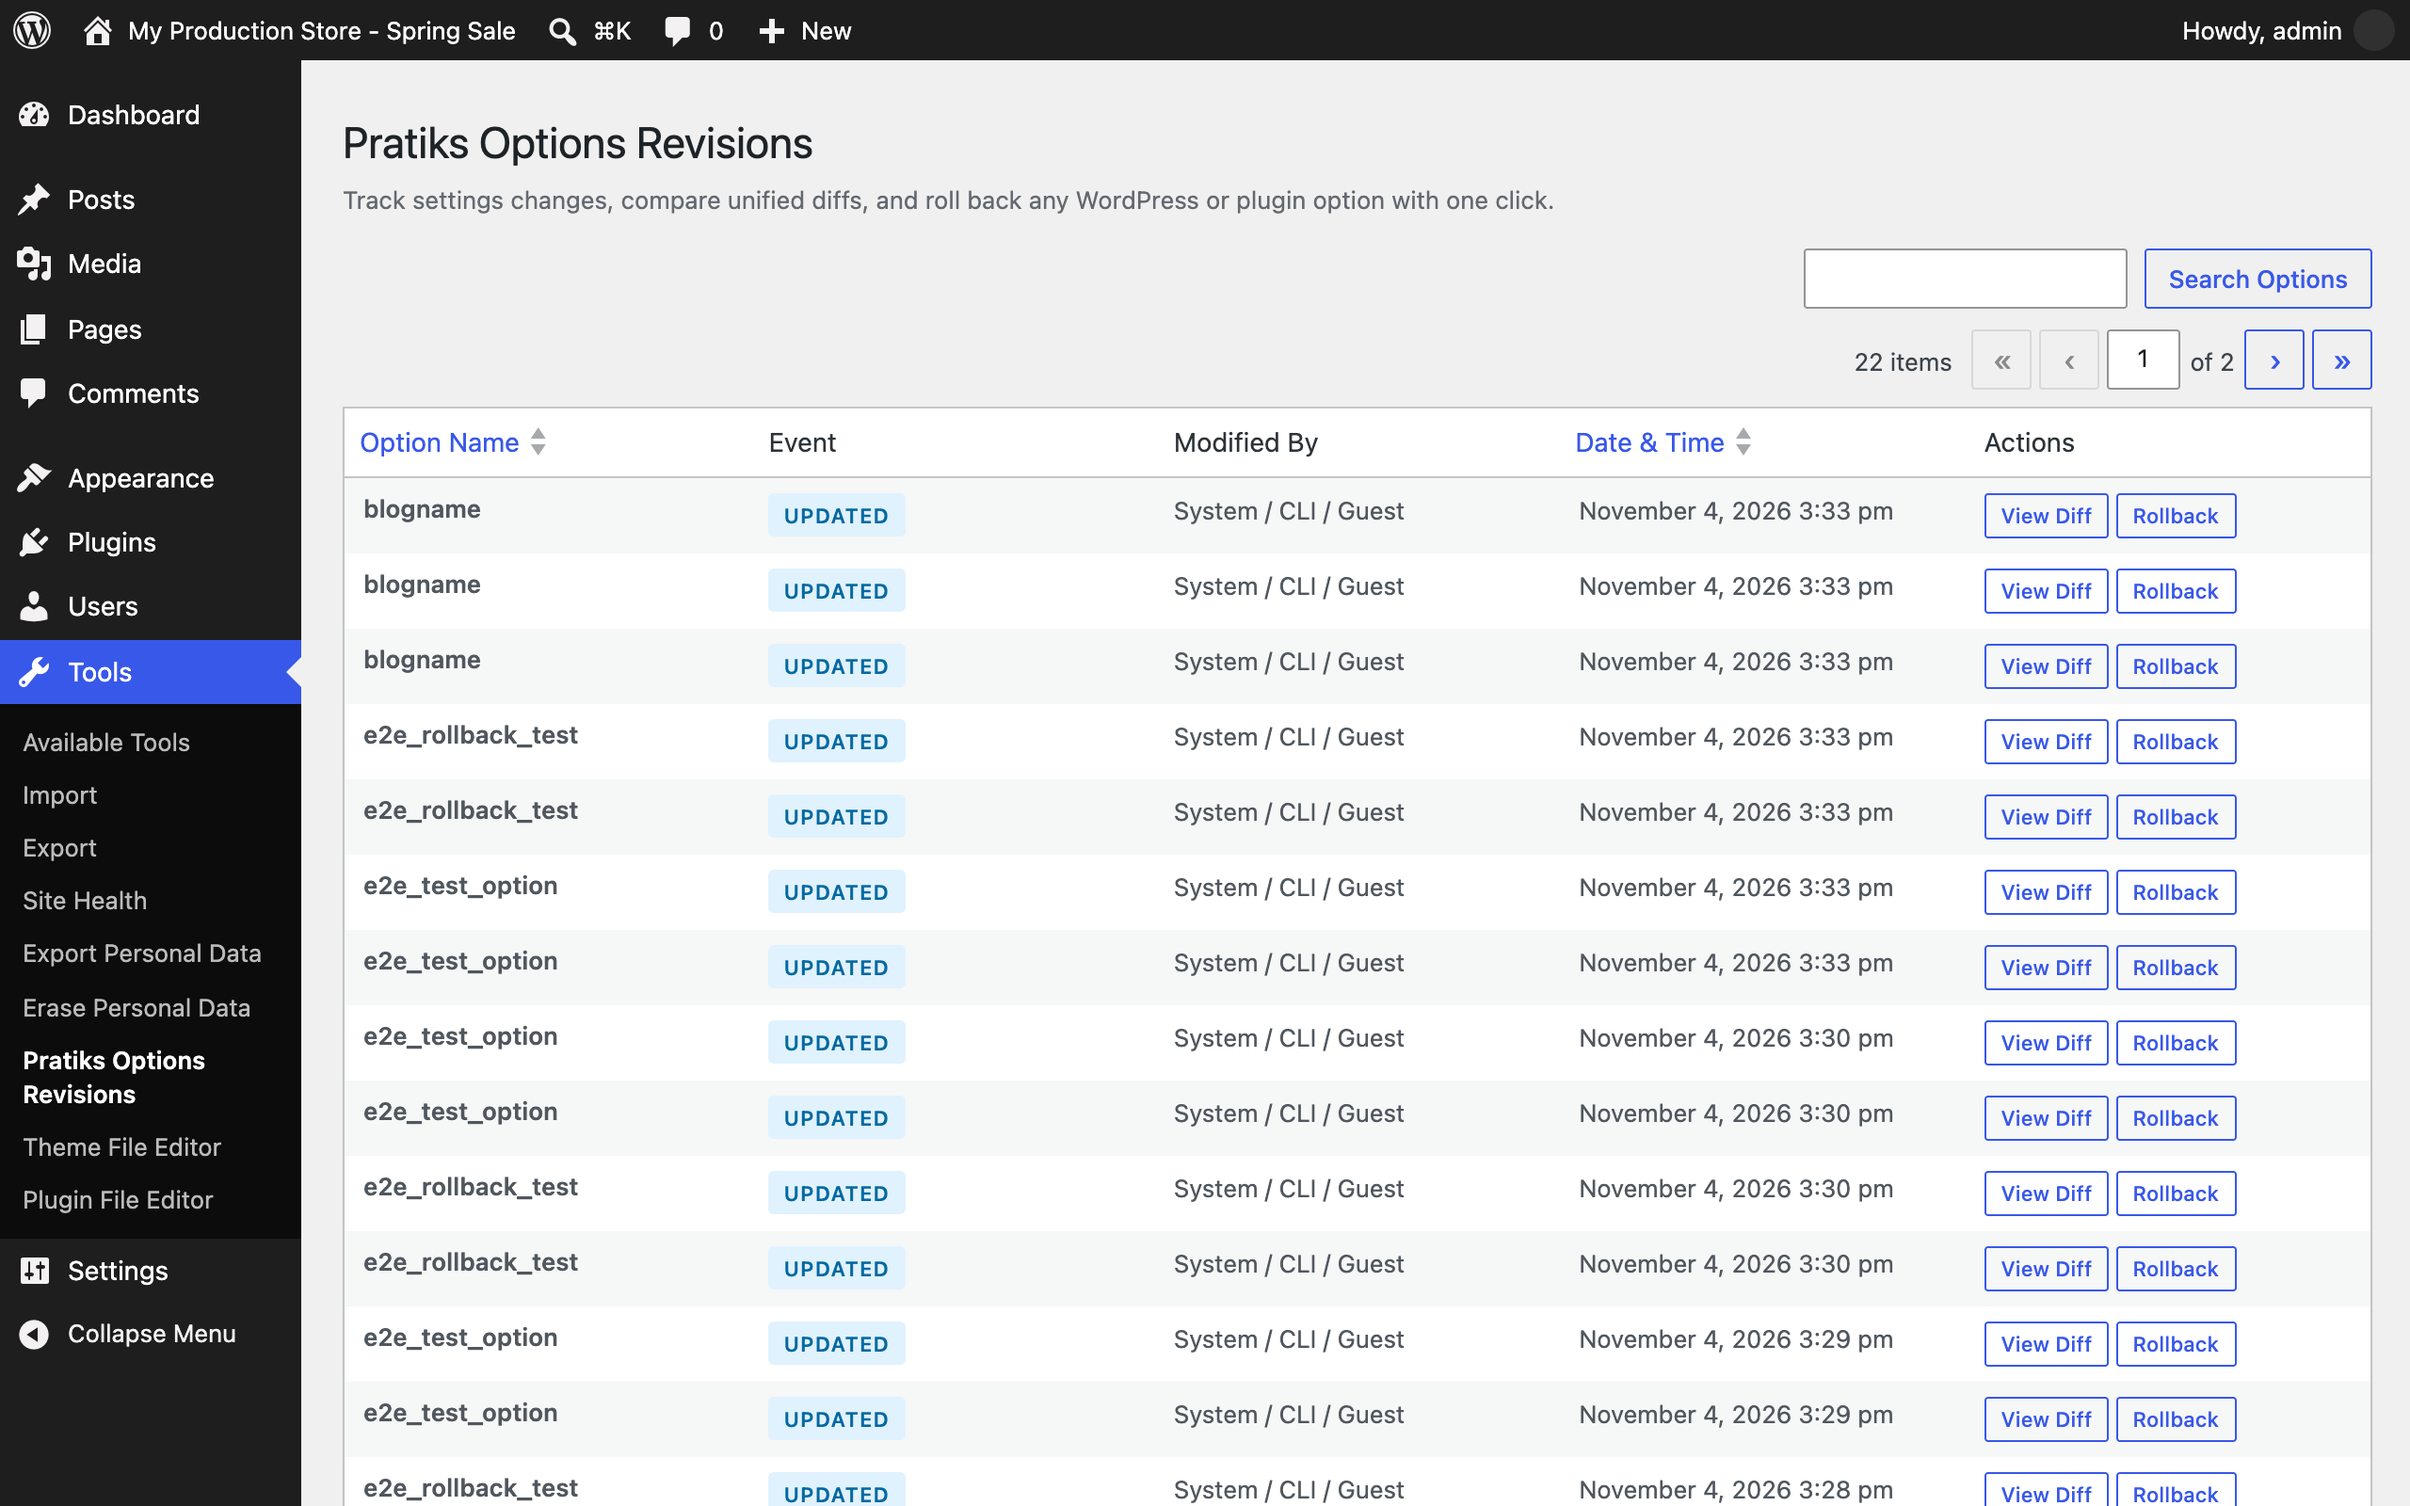
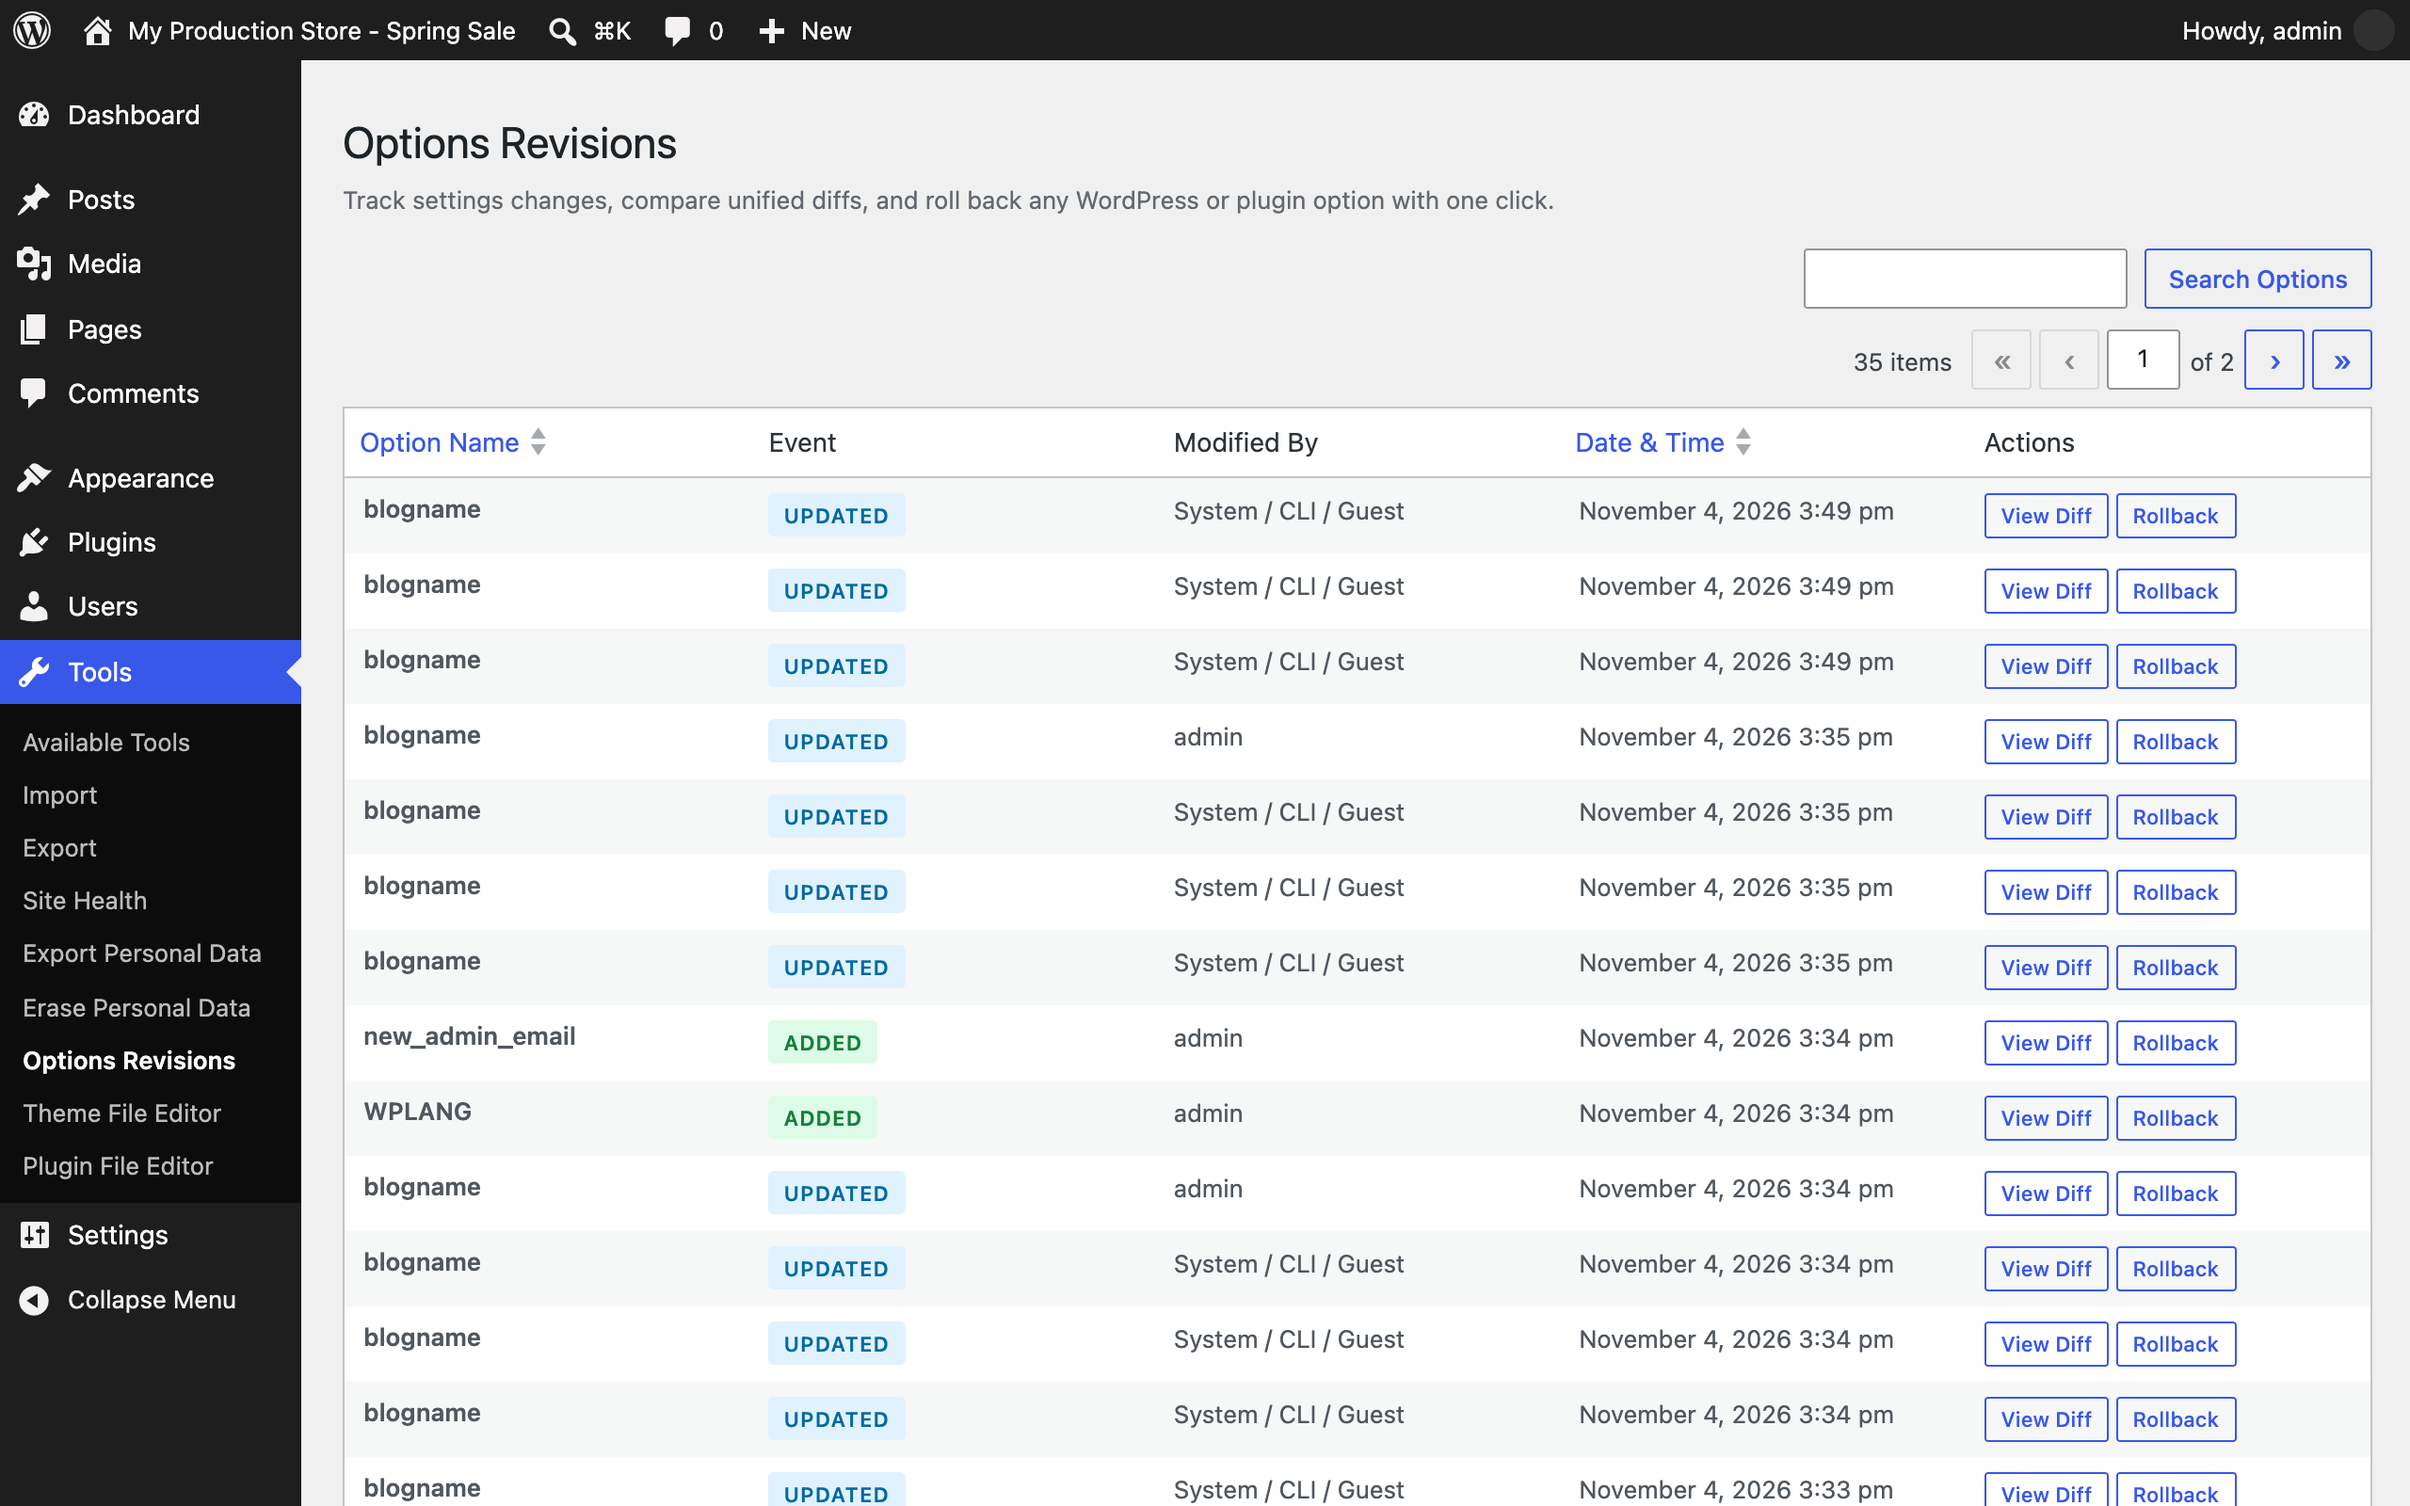
fix: use Options Revisions in admin UI and menus

diff --git a/tests/e2e/demo.spec.js b/tests/e2e/demo.spec.js
@@ -25,9 +25,9 @@ test( 'demo: update an option, view visual diff, and roll back in Tools', async 
 			await demo.type( titleInput, ' - Flash Promo (Unintended)' );
 			await demo.click( page.locator( '#submit' ), 1000 );
 
-			// Navigate to Tools > Pratiks Options Revisions.
+			// Navigate to Tools > Options Revisions.
 			await demo.click( page.getByRole( 'link', { name: 'Tools', exact: true } ), 500 );
-			await demo.click( page.getByRole( 'link', { name: 'Pratiks Options Revisions' } ), 1000 );
+			await demo.click( page.getByRole( 'link', { name: 'Options Revisions' } ), 1000 );
 
 			// Inspect the revisions table.
 			const table = page.locator( 'table.wp-list-table' );

diff --git a/tests/e2e/screenshots.spec.js b/tests/e2e/screenshots.spec.js
@@ -15,9 +15,9 @@ test.describe( 'Screenshots', () => {
 		wp( 'option', 'update', 'default_role', 'customer' );
 	} );
 
-	test( '1: revisions list table under Tools > Pratiks Options Revisions', async ( { page } ) => {
+	test( '1: revisions list table under Tools > Options Revisions', async ( { page } ) => {
 		await page.goto( '/wp-admin/tools.php?page=pratiks-options-revisions' );
-		await expect( page.locator( '.optrev-wrap h1' ) ).toHaveText( 'Pratiks Options Revisions' );
+		await expect( page.locator( '.optrev-wrap h1' ) ).toHaveText( 'Options Revisions' );
 		await expect( page.locator( 'table.wp-list-table' ) ).toBeVisible();
 		await shot( page, 1 );
 	} );

diff --git a/tests/e2e/pratiks-options-revisions.spec.js b/tests/e2e/pratiks-options-revisions.spec.js
@@ -19,7 +19,7 @@ test.describe( 'Pratiks Options Revisions', () => {
 		wp( 'option', 'update', testOption, 'Updated Value' );
 
 		await page.goto( '/wp-admin/tools.php?page=pratiks-options-revisions' );
-		await expect( page.locator( '.optrev-wrap h1' ) ).toHaveText( 'Pratiks Options Revisions' );
+		await expect( page.locator( '.optrev-wrap h1' ) ).toHaveText( 'Options Revisions' );
 		await expect( page.locator( 'table.wp-list-table' ) ).toContainText( testOption );
 
 		// Open Diff modal.

diff --git a/src/Privacy/Privacy.php b/src/Privacy/Privacy.php
@@ -42,7 +42,7 @@ class Privacy implements Service {
 			)
 		);
 
-		wp_add_privacy_policy_content( __( 'Pratiks Options Revisions', 'pratiks-options-revisions' ), $content );
+		wp_add_privacy_policy_content( __( 'Options Revisions', 'pratiks-options-revisions' ), $content );
 	}
 
 	/**
@@ -53,7 +53,7 @@ class Privacy implements Service {
 	 */
 	public function register_exporter( array $exporters ): array {
 		$exporters['pratiks-options-revisions'] = array(
-			'exporter_friendly_name' => __( 'Pratiks Options Revisions', 'pratiks-options-revisions' ),
+			'exporter_friendly_name' => __( 'Options Revisions', 'pratiks-options-revisions' ),
 			'callback'               => array( $this, 'export_user_data' ),
 		);
 		return $exporters;
@@ -98,7 +98,7 @@ class Privacy implements Service {
 			foreach ( $records as $record ) {
 				$export_items[] = array(
 					'group_id'    => 'pratiks_options_revisions',
-					'group_label' => __( 'Pratiks Options Revisions', 'pratiks-options-revisions' ),
+					'group_label' => __( 'Options Revisions', 'pratiks-options-revisions' ),
 					'item_id'     => 'revision-' . $record->id,
 					'data'        => array(
 						array(
@@ -132,7 +132,7 @@ class Privacy implements Service {
 	 */
 	public function register_eraser( array $erasers ): array {
 		$erasers['pratiks-options-revisions'] = array(
-			'eraser_friendly_name' => __( 'Pratiks Options Revisions', 'pratiks-options-revisions' ),
+			'eraser_friendly_name' => __( 'Options Revisions', 'pratiks-options-revisions' ),
 			'callback'             => array( $this, 'erase_user_data' ),
 		);
 		return $erasers;

diff --git a/src/Health/SiteHealth.php b/src/Health/SiteHealth.php
@@ -50,7 +50,7 @@ class SiteHealth implements Service {
 	 */
 	public function register_tests( array $tests ): array {
 		$tests['direct']['pratiks_options_revisions_status'] = array(
-			'label' => __( 'Pratiks Options Revisions Status', 'pratiks-options-revisions' ),
+			'label' => __( 'Options Revisions Status', 'pratiks-options-revisions' ),
 			'test'  => array( $this, 'run_test' ),
 		);
 		return $tests;
@@ -70,7 +70,7 @@ class SiteHealth implements Service {
 
 		if ( ! $table_exists ) {
 			return array(
-				'label'       => __( 'Pratiks Options Revisions table is missing', 'pratiks-options-revisions' ),
+				'label'       => __( 'Options Revisions table is missing', 'pratiks-options-revisions' ),
 				'status'      => 'critical',
 				'badge'       => array(
 					'label' => __( 'Database', 'pratiks-options-revisions' ),
@@ -91,12 +91,12 @@ class SiteHealth implements Service {
 		return array(
 			'label'       => sprintf(
 				/* translators: %d total recorded revisions */
-				__( 'Pratiks Options Revisions is active (%d revisions recorded)', 'pratiks-options-revisions' ),
+				__( 'Options Revisions is active (%d revisions recorded)', 'pratiks-options-revisions' ),
 				$count
 			),
 			'status'      => $cron_scheduled ? 'good' : 'recommended',
 			'badge'       => array(
-				'label' => __( 'Pratiks Options Revisions', 'pratiks-options-revisions' ),
+				'label' => __( 'Options Revisions', 'pratiks-options-revisions' ),
 				'color' => 'blue',
 			),
 			'description' => sprintf(

diff --git a/src/Admin/AdminPage.php b/src/Admin/AdminPage.php
@@ -74,12 +74,12 @@ class AdminPage implements Service {
 	}
 
 	/**
-	 * Registers Tools > Pratiks Options Revisions menu.
+	 * Registers Tools > Options Revisions menu.
 	 */
 	public function add_menu_page(): void {
 		add_management_page(
-			__( 'Pratiks Options Revisions', 'pratiks-options-revisions' ),
-			__( 'Pratiks Options Revisions', 'pratiks-options-revisions' ),
+			__( 'Options Revisions', 'pratiks-options-revisions' ),
+			__( 'Options Revisions', 'pratiks-options-revisions' ),
 			self::capability(),
 			self::MENU_SLUG,
 			array( $this, 'render_page' )
@@ -199,7 +199,7 @@ class AdminPage implements Service {
 		$table->prepare_items();
 		?>
 		<div class="wrap optrev-wrap">
-			<h1 class="wp-heading-inline"><?php esc_html_e( 'Pratiks Options Revisions', 'pratiks-options-revisions' ); ?></h1>
+			<h1 class="wp-heading-inline"><?php esc_html_e( 'Options Revisions', 'pratiks-options-revisions' ); ?></h1>
 			<p class="description">
 				<?php esc_html_e( 'Track settings changes, compare unified diffs, and roll back any WordPress or plugin option with one click.', 'pratiks-options-revisions' ); ?>
 			</p>

diff --git a/src/Abilities.php b/src/Abilities.php
@@ -68,7 +68,7 @@ class Abilities implements Service {
 		wp_register_ability_category(
 			self::CATEGORY,
 			array(
-				'label'       => __( 'Pratiks Options Revisions', 'pratiks-options-revisions' ),
+				'label'       => __( 'Options Revisions', 'pratiks-options-revisions' ),
 				'description' => __( 'Manage and rollback settings and option revisions.', 'pratiks-options-revisions' ),
 			)
 		);

diff --git a/README.md b/README.md
@@ -92,7 +92,7 @@ add_filter( 'pratiks_options_revisions_should_ignore', function( $ignore, $optio
 
 <table>
   <tr>
-    <td width="50%" valign="top"><img src=".wordpress-org/screenshot-1.png" alt="Revisions list table under Tools > Pratiks Options Revisions"><br><sub>Revisions list table under Tools > Pratiks Options Revisions</sub></td>
+    <td width="50%" valign="top"><img src=".wordpress-org/screenshot-1.png" alt="Revisions list table under Tools > Options Revisions"><br><sub>Revisions list table under Tools > Options Revisions</sub></td>
     <td width="50%" valign="top"><img src=".wordpress-org/screenshot-2.png" alt="Unified visual diff modal showing previous and new option values"><br><sub>Unified visual diff modal showing previous and new option values</sub></td>
   </tr>
 </table>
@@ -123,7 +123,7 @@ src/
 ├── Diff/
 │   └── DiffEngine.php           JSON normalization and wp_text_diff generation
 ├── Admin/
-│   ├── AdminPage.php            Tools > Pratiks Options Revisions admin controller
+│   ├── AdminPage.php            Tools > Options Revisions admin controller
 │   └── RevisionsListTable.php   WP_List_Table for searching and filtering revisions
 ├── Rollback/
 │   └── RollbackHandler.php      safe rollback execution with recursion guards
